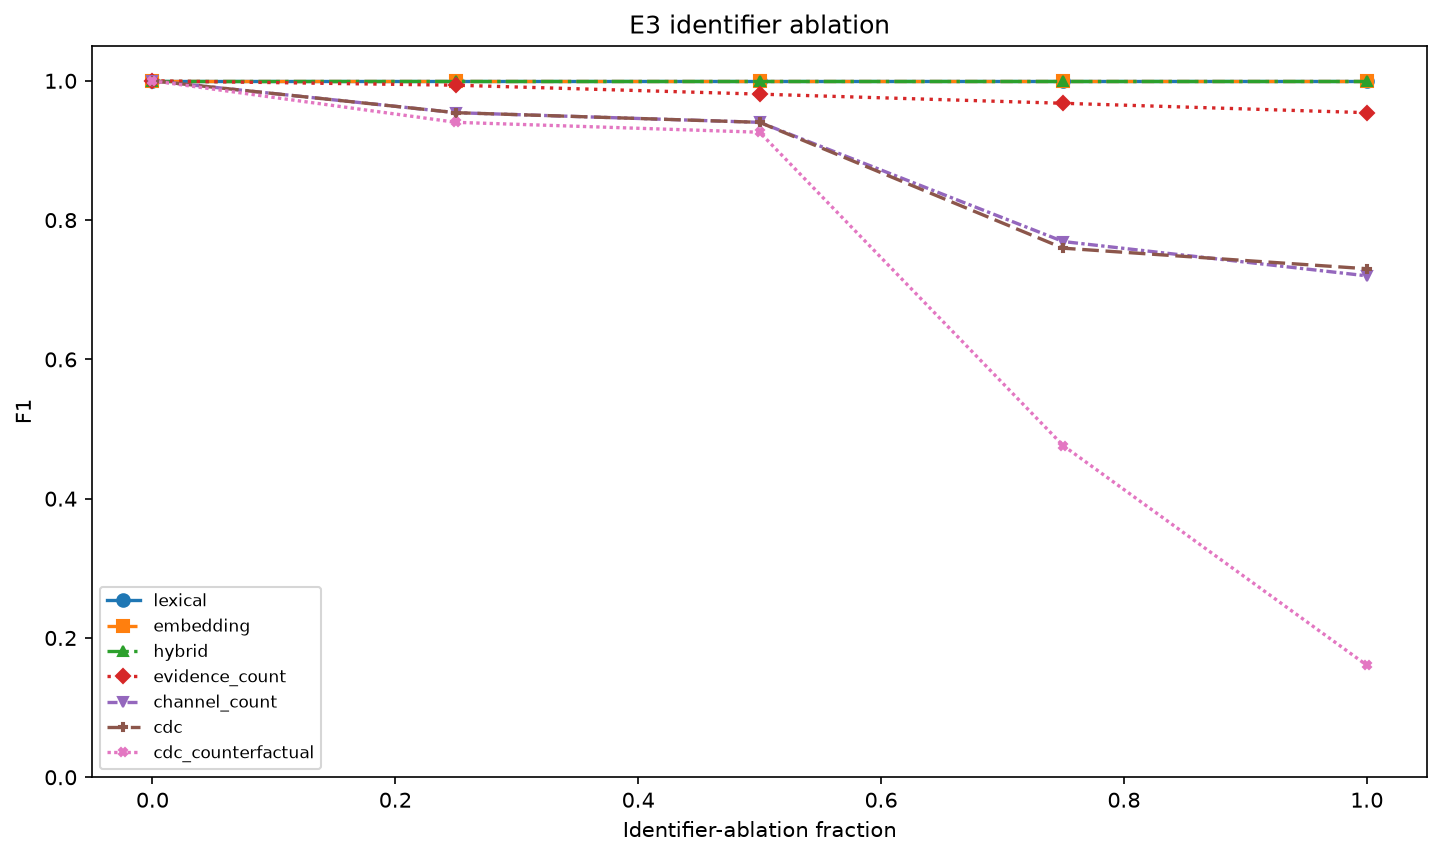
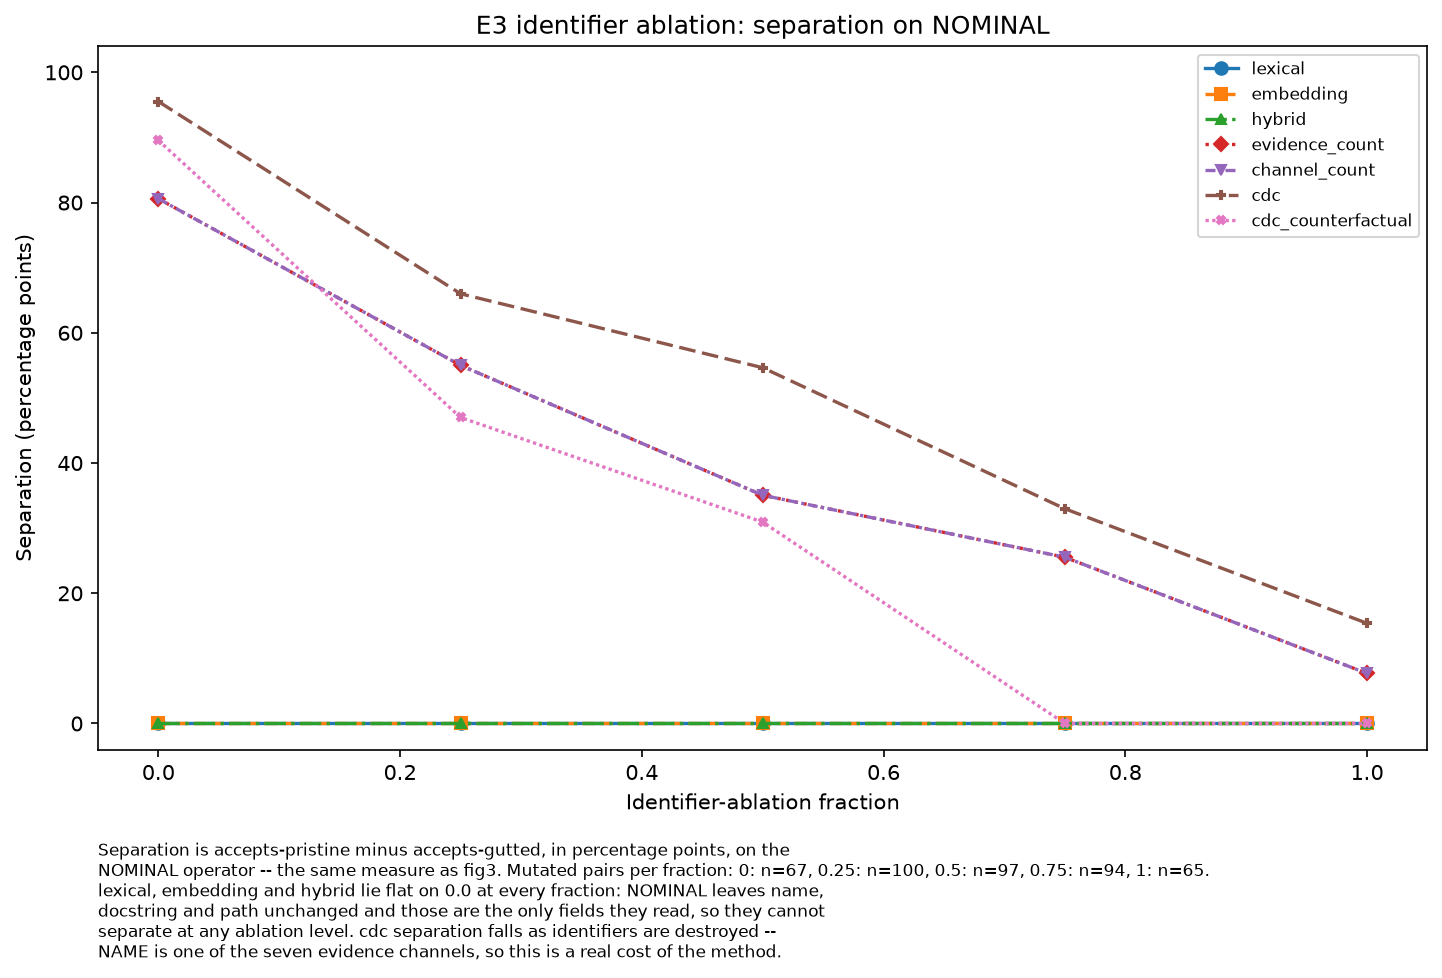
fix(figures): plot E3 as separation, not the retired implemented-class F1
fig4 showed lexical, hybrid and embedding flat at F1 = 1.000 across the whole
rename sweep while cdc fell away -- the inverse of the project's claim, and an
artefact of a metric that could not penalise over-acceptance. It now plots
accepts-pristine minus accepts-gutted on NOMINAL, the same measure as fig3,
with per-fraction n and a caption stating both what the sweep shows and what
it costs the method.

diff --git a/figures/make_figures.py b/figures/make_figures.py
@@ -248,17 +248,22 @@ def fig3_separation(res, path, operator="NOMINAL"):
 
 
 def fig4_ablation(res, path):
+    """Pristine-versus-gutted separation against identifier-ablation fraction."""
     e3 = res.get("e3_identifier_ablation", {})
-    fig, ax = plt.subplots(figsize=(9.5, 5.6), layout="constrained")
+    fig, ax = plt.subplots(figsize=(9.5, 6.4), layout="constrained")
     ax.set_xlabel("Identifier-ablation fraction")
-    ax.set_ylabel("F1")
-    ax.set_title("E3 identifier ablation")
-    ax.set_ylim(0.0, 1.05)
+    ax.set_ylabel("Separation (percentage points)")
     ax.set_xlim(-0.05, 1.05)
+    ax.set_ylim(-4.0, 104.0)
 
     if not isinstance(e3, dict):
         save(fig, path)
         return
+
+    operator = e3.get("headline_operator", "NOMINAL")
+    ax.set_title(
+        f"E3 identifier ablation: separation on {operator}"
+    )
 
     frac_keys = []
     for key in e3:
@@ -270,23 +275,26 @@ def fig4_ablation(res, path):
 
     policy_names = set()
     for _, key in frac_keys:
-        block = e3.get(key) or {}
+        block = (e3.get(key) or {}).get(operator) or {}
         if isinstance(block, dict):
             policy_names.update(k for k, v in block.items() if isinstance(v, dict))
     policies = ordered_policies(policy_names)
 
+    ns = []
     for policy in policies:
         xs, ys = [], []
         for frac, key in frac_keys:
-            block = e3.get(key) or {}
+            block = (e3.get(key) or {}).get(operator) or {}
             rec = block.get(policy) if isinstance(block, dict) else None
-            if isinstance(rec, dict) and "f1" in rec:
+            if isinstance(rec, dict) and "separation" in rec:
                 xs.append(frac)
-                ys.append(float(rec["f1"]))
+                ys.append(float(rec["separation"]))
+                if rec.get("n"):
+                    ns.append((frac, int(rec["n"])))
         if xs:
-            # Several policies sit at F1 = 1.0 for the whole sweep. Distinct
-            # dash patterns and markers keep a hidden line visible under the
-            # one drawn on top of it.
+            # lexical, embedding and hybrid all sit flat on 0.0 for the whole
+            # sweep. Distinct dash patterns and markers keep a hidden line
+            # visible under the one drawn on top of it.
             i = policies.index(policy)
             ax.plot(
                 xs, ys,
@@ -297,7 +305,25 @@ def fig4_ablation(res, path):
             )
 
     if policies:
-        ax.legend(loc="lower left", fontsize=8)
+        ax.legend(loc="upper right", fontsize=8)
+
+    counts = ", ".join(f"{f:g}: n={n}" for f, n in sorted(dict(ns).items()))
+    ax.text(
+        0.0, -0.13,
+        "Separation is accepts-pristine minus accepts-gutted, in percentage"
+        " points, on the\n"
+        f"{operator} operator -- the same measure as fig3. Mutated pairs per"
+        f" fraction: {counts}.\n"
+        "lexical, embedding and hybrid lie flat on 0.0 at every fraction:"
+        " NOMINAL leaves name,\n"
+        "docstring and path unchanged and those are the only fields they read,"
+        " so they cannot\n"
+        "separate at any ablation level. cdc separation falls as identifiers"
+        " are destroyed --\n"
+        "NAME is one of the seven evidence channels, so this is a real cost of"
+        " the method.",
+        transform=ax.transAxes, fontsize=8, va="top",
+    )
     save(fig, path)
 
 
